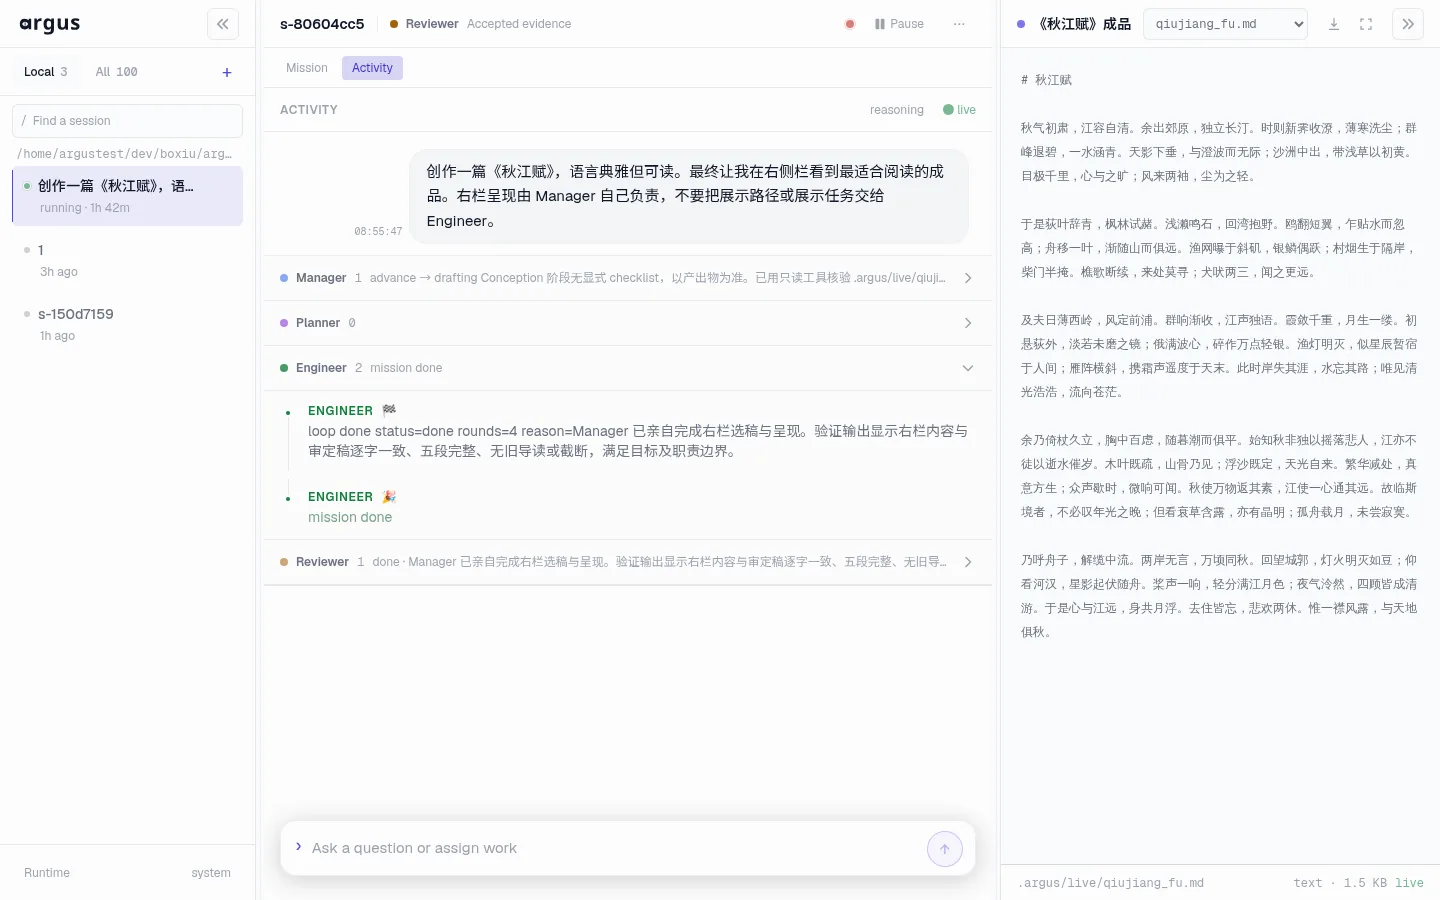
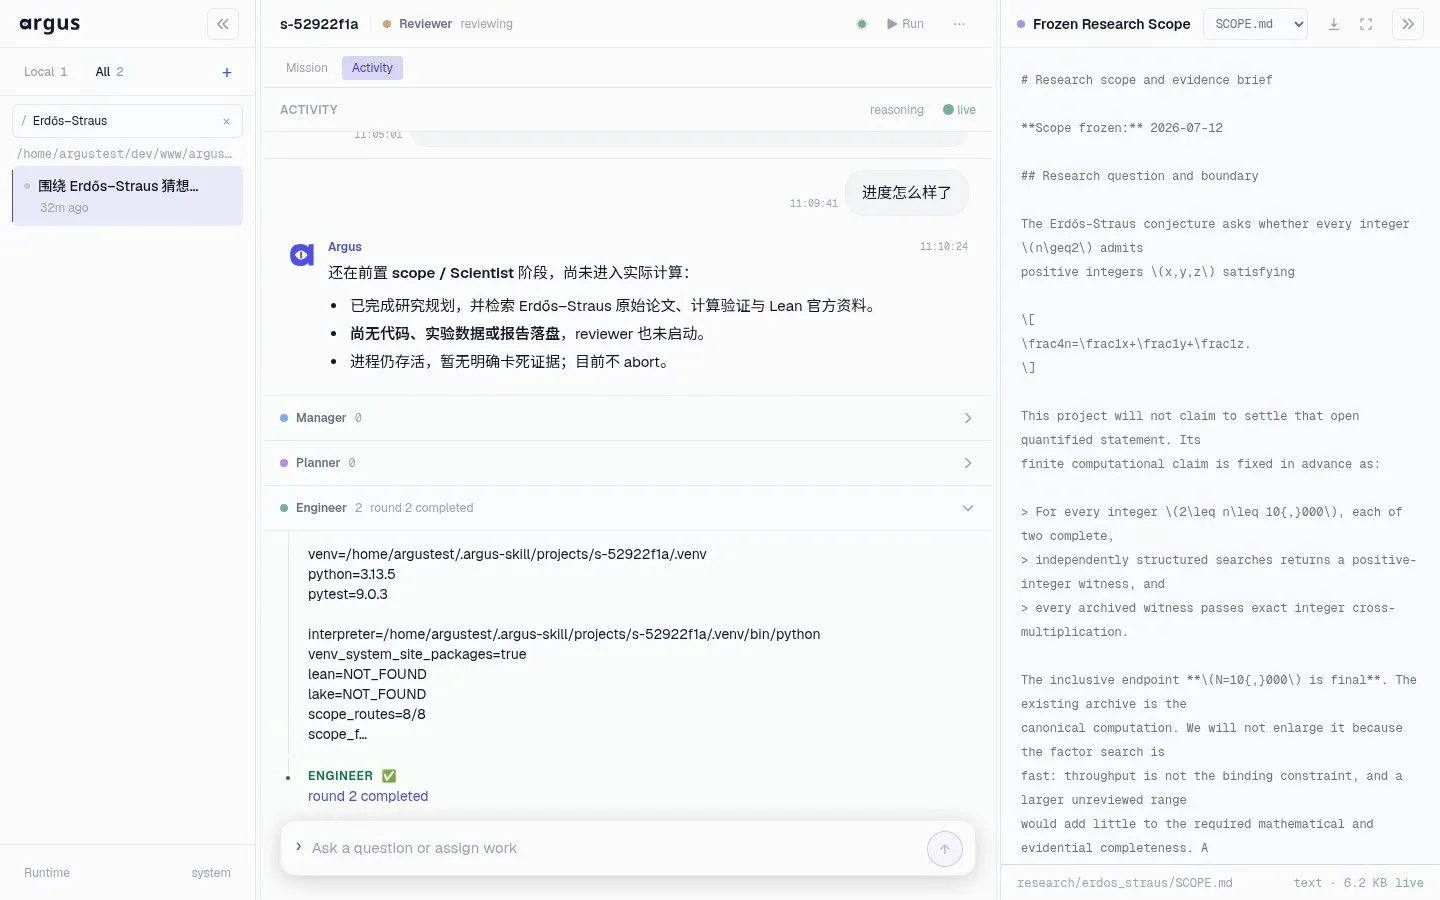
site: show complete Argus runtime workflows
Copilot-Session: 5f490977-25e6-4b40-955d-d5e3cb9880f7

diff --git a/src/styles/global.css b/src/styles/global.css
@@ -492,6 +492,61 @@ main {
   max-width: 1100px;
 }
 
+.runtime-flow {
+  border-block: 1px solid var(--line);
+  background: rgba(255, 255, 255, 0.62);
+}
+
+.runtime-flow__track {
+  display: grid;
+  grid-template-columns: repeat(6, 1fr);
+}
+
+.runtime-flow__track div {
+  position: relative;
+  min-width: 0;
+  padding: 19px 16px;
+  border-right: 1px solid var(--line);
+}
+
+.runtime-flow__track div:first-child {
+  padding-left: 0;
+}
+
+.runtime-flow__track div:last-child {
+  border-right: 0;
+}
+
+.runtime-flow__track div:not(:last-child)::after {
+  content: "→";
+  position: absolute;
+  right: -7px;
+  top: 17px;
+  z-index: 1;
+  padding: 0 2px;
+  background: #fff;
+  color: var(--gold-dark);
+  font-family: var(--mono);
+  font-size: 10px;
+}
+
+.runtime-flow__track span {
+  display: block;
+  color: var(--gold-dark);
+  font-family: var(--mono);
+  font-size: 9px;
+}
+
+.runtime-flow__track strong {
+  display: block;
+  margin-top: 3px;
+  overflow: hidden;
+  color: var(--ink-2);
+  font-size: 11px;
+  text-overflow: ellipsis;
+  white-space: nowrap;
+}
+
 .demo-section {
   scroll-margin-top: 64px;
 }
@@ -972,6 +1027,24 @@ main {
 
   .launch-options {
     grid-template-columns: 1fr;
+  }
+
+  .runtime-flow .demo-shell {
+    width: 100%;
+    overflow-x: auto;
+    scrollbar-width: none;
+  }
+
+  .runtime-flow .demo-shell::-webkit-scrollbar {
+    display: none;
+  }
+
+  .runtime-flow__track {
+    width: 720px;
+  }
+
+  .runtime-flow__track div:first-child {
+    padding-left: 16px;
   }
 
   .paper-toolbar {